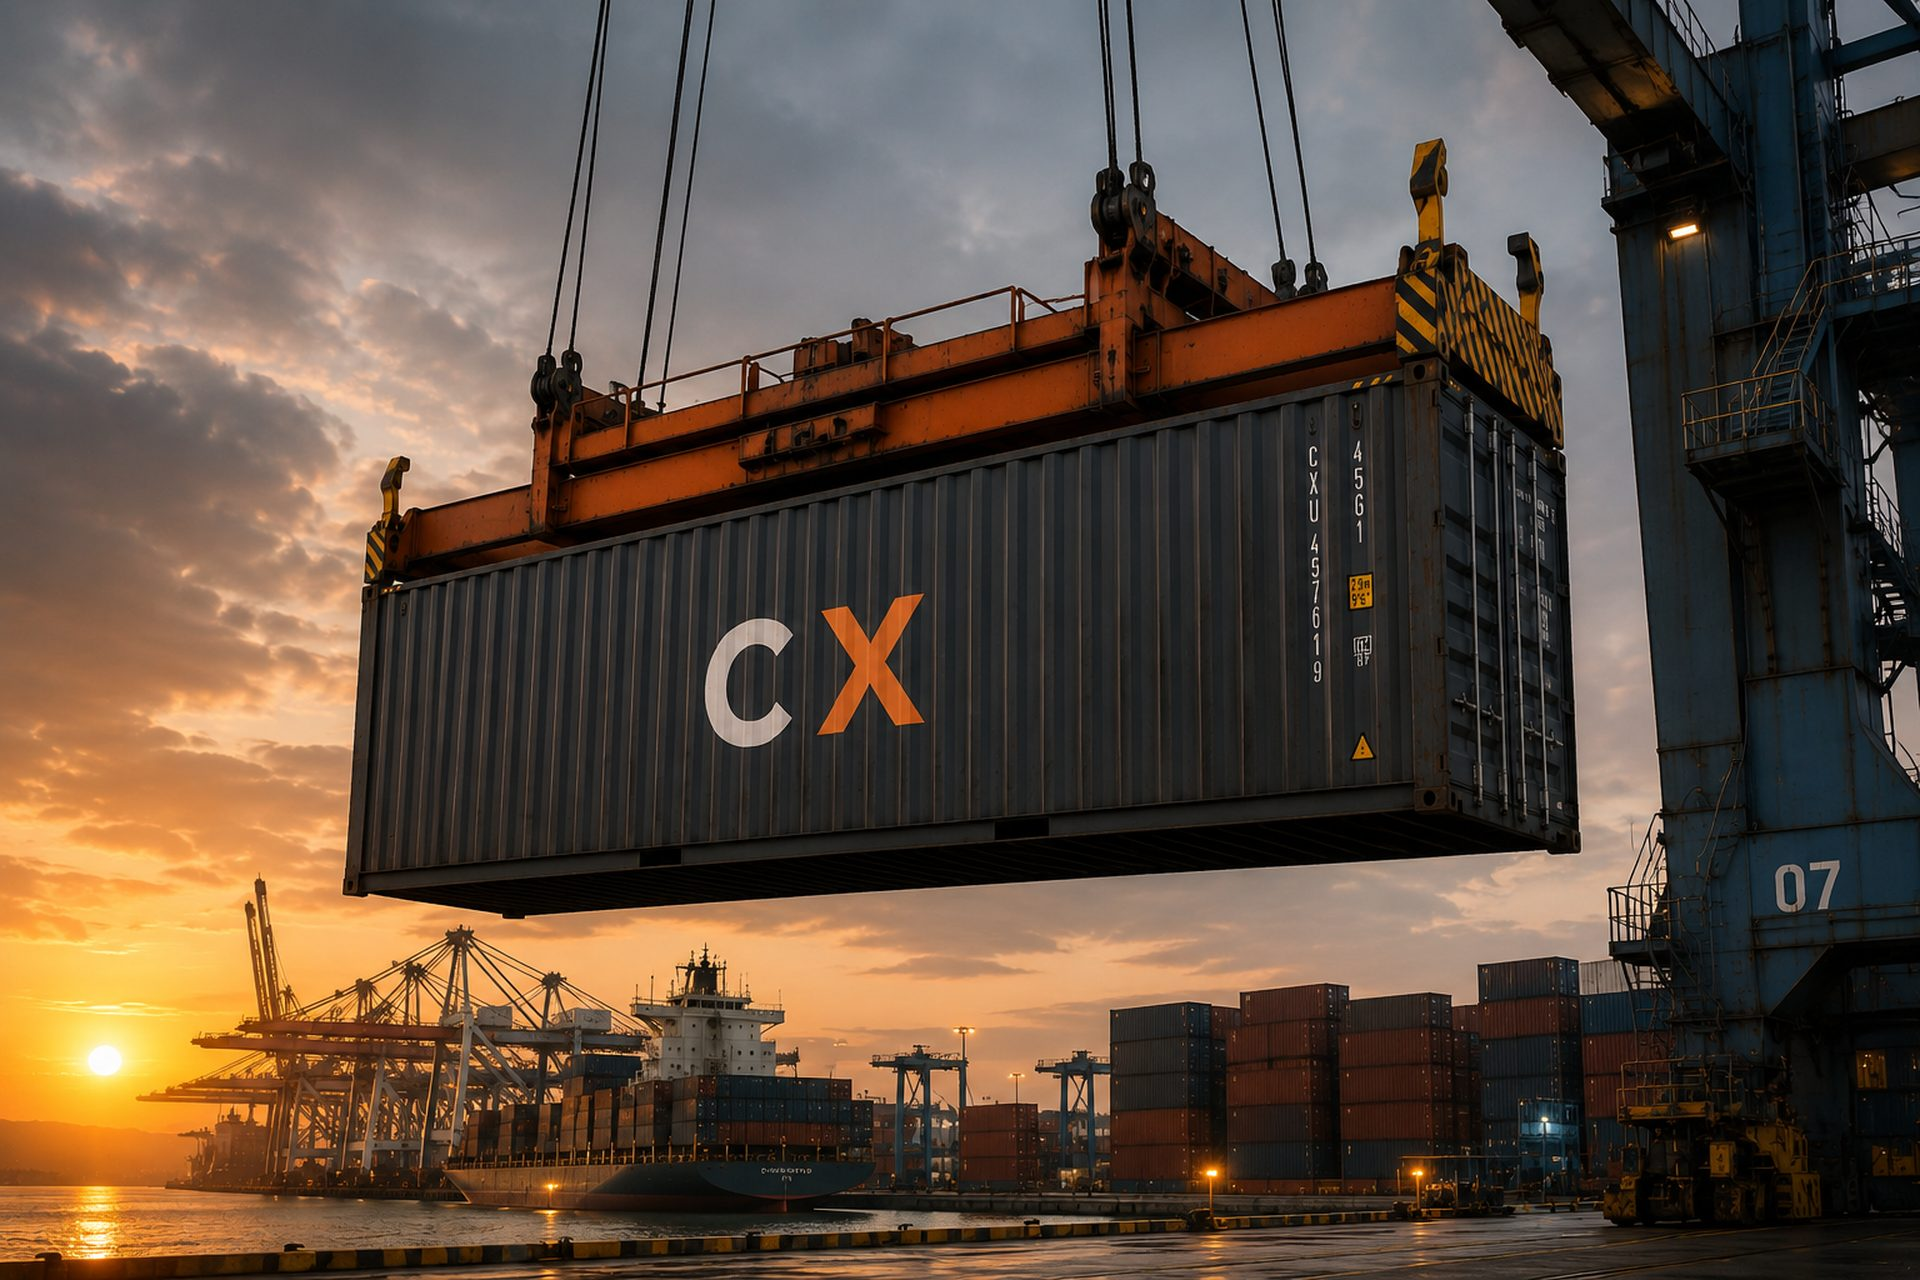
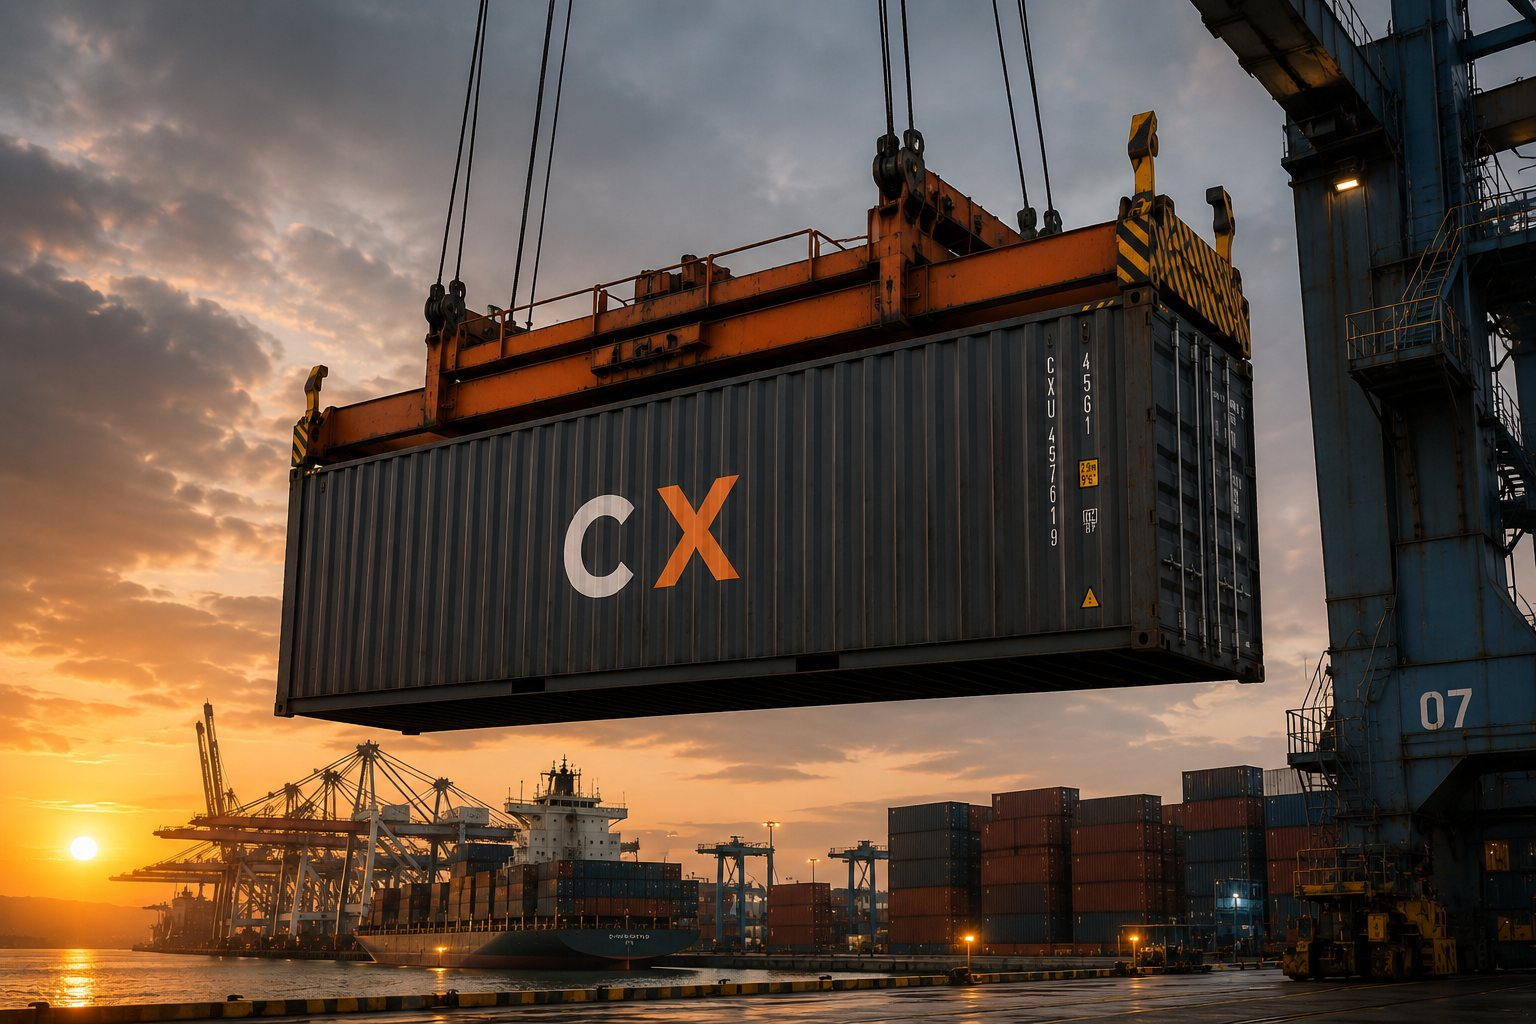
hero: mobil netlik (tam cozunurluk + piksel butcesi + netlestirme), yazi golgesi ve kontrast

Changed region(s): [[0.1875, 0.7188, 0.2812, 0.7812], [0.8438, 0.6562, 0.875, 0.7188], [0.3125, 0.7812, 0.3438, 0.8125]]

diff --git a/index.html b/index.html
@@ -84,8 +84,7 @@
 <link rel="preconnect" href="https://fonts.googleapis.com">
 <link rel="preconnect" href="https://fonts.gstatic.com" crossorigin>
 <link rel="preload" as="font" type="font/woff2" crossorigin href="https://fonts.gstatic.com/s/archivo/v25/k3kQo8UDI-1M0wlSfdnoLmvDIaI.woff2">
-<link rel="preload" as="image" href="/images/hero-port.webp" type="image/webp" fetchpriority="high" media="(min-width: 761px)">
-<link rel="preload" as="image" href="/images/hero-port-960.webp" type="image/webp" fetchpriority="high" media="(max-width: 760px)">
+<link rel="preload" as="image" href="/images/hero-port.webp" type="image/webp" fetchpriority="high">
 <link href="https://fonts.googleapis.com/css2?family=Archivo:wdth,wght@100..125,300..800&display=swap" rel="stylesheet">
 <style>
   :root {
@@ -93,8 +92,9 @@
     --ink-2: #121110;
     --ink-3: #1b1917;
     --bone: #f5f0eb;
-    --bone-dim: #8d8780;
-    --muted: #595550;
+    --bone-dim: #a29b93;
+    --bone-hero: #cdc6bd;   /* fotograf uzerindeki ikincil yazi */
+    --muted: #7e786f;   /* 9-11px etiketler: 2.7:1 -> 4.5:1 */
     --orange: #e8521a;
     --orange-deep: #b53c0e;
     --hair: rgba(245,240,235,0.09);
@@ -270,14 +270,15 @@
   }
 
   .hero-body { position: relative; z-index: 3; padding: 160px 64px 56px; }
-  .hero h1, .hero-meta, .hero-sub {
-    text-shadow: 0 1px 2px rgba(11,10,9,0.55), 0 10px 30px rgba(11,10,9,0.45);
-  }
+  .hero h1 { text-shadow: 0 1px 3px rgba(11,10,9,0.62), 0 3px 10px rgba(11,10,9,0.30); }
+  /* ici bos harf saydam doldurulur; golge onun arkasinda dolu bir leke birakir */
+  .hero h1 .hollow { text-shadow: none; }
+  .hero-meta, .hero-sub, .hero-modes { text-shadow: 0 1px 3px rgba(11,10,9,0.78); }
 
   .hero-meta {
     display: flex; gap: 28px; align-items: center; margin-bottom: 36px;
     font-family: var(--mono); font-size: 11px; letter-spacing: 2px;
-    text-transform: uppercase; color: var(--bone-dim);
+    text-transform: uppercase; color: var(--bone-hero);
   }
   .hero-meta .dot { width: 5px; height: 5px; border-radius: 50%; background: var(--orange); animation: pulse 2s infinite; }
   .hero-meta b { color: var(--orange); font-weight: 400; }
@@ -301,7 +302,7 @@
   .hero-modes {
     display: flex; align-items: center; gap: 22px; margin-top: 30px; flex-wrap: wrap;
     font-family: var(--mono); font-size: 11px; letter-spacing: 2px; text-transform: uppercase;
-    color: var(--bone-dim);
+    color: var(--bone-hero);
     opacity: 0; animation: fadeUp 0.9s var(--ease) 0.25s forwards;
   }
   .hero-modes .mode { display: inline-flex; align-items: center; gap: 9px; }
@@ -314,7 +315,7 @@
     gap: 48px; margin-top: 48px; flex-wrap: wrap;
   }
   .hero-sub {
-    max-width: 360px; font-size: 15px; line-height: 1.75; color: var(--bone-dim);
+    max-width: 360px; font-size: 15px; line-height: 1.75; color: var(--bone-hero);
     opacity: 0; animation: fadeUp 0.9s var(--ease) 0.35s forwards;
   }
   .hero-sub strong { color: var(--bone); font-weight: 400; }
@@ -750,9 +751,8 @@
 <header class="hero" id="top">
   <div class="hero-port" id="hero-port" aria-hidden="true">
     <picture>
-      <source media="(max-width: 760px)" srcset="/images/hero-port-960.webp" type="image/webp">
       <source srcset="/images/hero-port.webp" type="image/webp">
-      <img src="/images/hero-port.jpg" alt="" width="1920" height="1280" fetchpriority="high" decoding="async">
+      <img src="/images/hero-port.jpg" alt="" width="1536" height="1024" fetchpriority="high" decoding="async">
     </picture>
   </div>
   <div class="hero-veil"></div>
@@ -1266,7 +1266,6 @@
     try {
       const s = initHeroPort(host, {
         photo: '/images/hero-port.webp',
-        photoSmall: '/images/hero-port-960.webp',
         masks: '/images/hero-port-masks.png',
         onReady: () => host.classList.add('live')
       });

diff --git a/js/hero-port.js b/js/hero-port.js
@@ -26,6 +26,7 @@ uniform float uImgAspect;
 uniform vec2  uPointer;
 uniform float uIntro;      // 0..1 fade-in of the motion
 uniform float uAmp;        // global motion amount (0 = frozen)
+uniform float uSharpen;    // upscale telafisi (dikey kadrajda devreye girer)
 
 const float PI2 = 6.2831853;
 
@@ -91,6 +92,17 @@ void main(){
   // both textures are uploaded top-row-first, so v matches image-space y
   vec2 suv = uv + disp;
   vec3 col = texture(uPhoto, suv).rgb;
+
+  // Dikey kadrajda fotoğrafın yalnızca ~%31'i ekranı doldurur, yani kaynak
+  // 2-3 kat büyütülür ve yumuşar. Hafif bir unsharp mask kenarları geri getirir.
+  if (uSharpen > 0.001) {
+    vec2 px = 1.0 / vec2(textureSize(uPhoto, 0));
+    vec3 blur = texture(uPhoto, suv + vec2( px.x, 0.0)).rgb
+              + texture(uPhoto, suv + vec2(-px.x, 0.0)).rgb
+              + texture(uPhoto, suv + vec2(0.0,  px.y)).rgb
+              + texture(uPhoto, suv + vec2(0.0, -px.y)).rgb;
+    col = clamp(col + (col - blur * 0.25) * uSharpen, 0.0, 1.0);
+  }
 
   // sparse sun glints on the water, strongest in the sun's column
   if (mWater > 0.002) {
@@ -202,21 +214,23 @@ export function initHeroPort(host, opts = {}) {
   gl.vertexAttribPointer(loc, 2, gl.FLOAT, false, 0, 0);
 
   const U = {};
-  for (const n of ['uPhoto', 'uMask', 'uRes', 'uTime', 'uImgAspect', 'uPointer', 'uIntro', 'uAmp']) {
+  for (const n of ['uPhoto', 'uMask', 'uRes', 'uTime', 'uImgAspect', 'uPointer', 'uIntro', 'uAmp', 'uSharpen']) {
     U[n] = gl.getUniformLocation(prog, n);
   }
   gl.uniform1i(U.uPhoto, 0);
   gl.uniform1i(U.uMask, 1);
   gl.uniform1f(U.uAmp, reduced ? 0 : 1);
 
-  // Kaynak fotoğraf 1920px geniş; retina ekranda 2x çizmek dokuyu büyütmekten
-  // başka bir şey yapmaz, sadece dolgu maliyeti olur. 1.5 hem kaynağa yakın
-  // hem de parıltı/gren için yeterli örnekleme bırakır.
-  const DPR_CAP = 1.5;
-  let w = 1, h = 1;
+  // Çözünürlüğü cihaz oranıyla değil piksel bütçesiyle sınırla. Geniş
+  // masaüstünde 2x çizmek kaynağı büyütmekten başka iş yapmaz; buna karşılık
+  // dikey telefonda (dpr 3, küçük alan) düşük tavan kareyi iki kez büyütür ve
+  // fotoğraf soluklaşır. Bütçe ikisini de doğru yere oturtuyor.
+  const PIXEL_BUDGET = 3.2e6, DPR_CEIL = 2.5;
+  let w = 1, h = 1, texW = 0, imgAspect = 0;
   function resize() {
     const r = host.getBoundingClientRect();
-    const dpr = Math.min(window.devicePixelRatio || 1, DPR_CAP);
+    const area = Math.max(1, r.width * r.height);
+    const dpr = Math.min(window.devicePixelRatio || 1, DPR_CEIL, Math.sqrt(PIXEL_BUDGET / area));
     w = Math.max(1, Math.round(r.width * dpr));
     h = Math.max(1, Math.round(r.height * dpr));
     if (canvas.width !== w || canvas.height !== h) {
@@ -224,6 +238,13 @@ export function initHeroPort(host, opts = {}) {
     }
     gl.viewport(0, 0, w, h);
     gl.uniform2f(U.uRes, w, h);
+    // kac kat buyutuyoruz? kaynagin kadrajda kalan genisligine gore
+    if (texW) {
+      const ca = w / h, ia = imgAspect || 1.5;
+      const visible = ca > ia ? 1 : ca / ia;
+      const upscale = w / Math.max(1, texW * visible);
+      gl.uniform1f(U.uSharpen, Math.min(0.55, Math.max(0, (upscale - 1.15) * 0.42)));
+    }
   }
   const ro = new ResizeObserver(resize);
   ro.observe(host);
@@ -276,7 +297,9 @@ export function initHeroPort(host, opts = {}) {
     loadTexture(gl, useSmall ? smallUrl : photoUrl, 0, false),
     loadTexture(gl, maskUrl, 1, false)
   ]).then(([photo]) => {
-    gl.uniform1f(U.uImgAspect, photo.img.width / photo.img.height);
+    texW = photo.img.width;
+    imgAspect = photo.img.width / photo.img.height;
+    gl.uniform1f(U.uImgAspect, imgAspect);
     resize();
     ready = true;
     canvas.style.opacity = '1';
